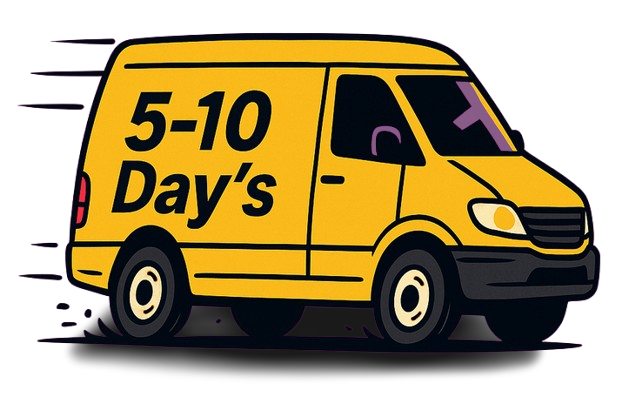
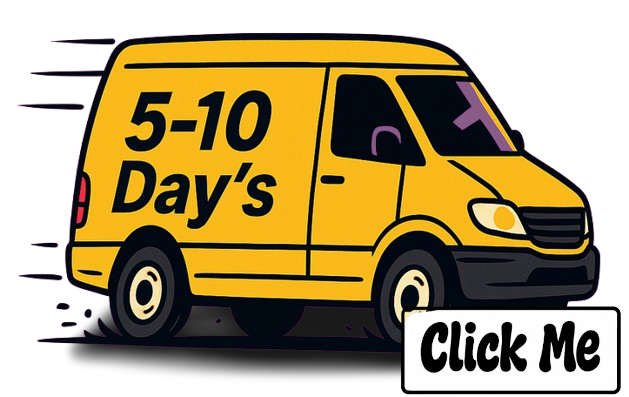
Add files via upload

Changed region(s): [[0.6343, 0.7557, 0.9968, 0.9975]]

diff --git a/index.html b/index.html
@@ -7,6 +7,9 @@
   <link href="https://fonts.googleapis.com/css2?family=Luckiest+Guy&display=swap" rel="stylesheet">
   <link href="https://cdnjs.cloudflare.com/ajax/libs/font-awesome/6.4.0/css/all.min.css" rel="stylesheet">
   <style>
+    html {
+      scroll-behavior: smooth;
+    }
     body {
       margin: 0;
       font-family: Arial, sans-serif;
@@ -50,6 +53,7 @@
       margin: 10px auto;
       display: block;
       animation: float 3s ease-in-out infinite;
+      cursor: pointer;
     }
     .value {
       font-size: 2em;
@@ -162,13 +166,24 @@
   </style>
 </head>
 <body>
+  <a name="top"></a>
   <header id="main-title">Love on Pi</header>
-  <img src="mondo.png" alt="Mondo con bandiera italiana" class="world-image">
+  <a href="#about"><img src="mondo.png" alt="Mondo con bandiera italiana" class="world-image"></a>
   <div class="value">1 Pi = <span id="pi-value">Caricamento...</span></div>
 
+  <a href="#shipping">
+  <a href="#shipping">
   <div class="delivery-section">
     <img class="delivery-img" src="delivery-van.png" alt="5-10 giorni di consegna">
   </div>
+</a>
+<a href="#payment">
+  <img src="cc.png" alt="Carta di credito" class="world-image">
+</a>
+<a href="#legal">
+  <img src="legal.png" alt="Legalità e sicurezza" style="max-width: 200px; width: 100%; margin: 10px auto; display: block; animation: pulseValue 3s ease-in-out infinite; cursor: pointer;">
+</a>
+</a>
 
   <div class="contact">INFO</div>
   <div class="social-icons">
@@ -247,10 +262,79 @@
       <h3>Code: Ts 02</h3>
       <p><span class="eur-amount">18 €</span> (<span class="pi-price">...</span>)</p>
     </div>
-    <!-- Aggiungi altri prodotti qui -->
+</div>
+
+  <a name="about"></a>
+  <div id="about" style="padding: 50px 20px; max-width: 800px; margin: 50px auto; background-color: rgba(0, 0, 0, 0.5); border-radius: 10px; color: #fff;">
+    <h2 style="font-family: 'Luckiest Guy', cursive; color: #f0c420;">Chi Sono</h2>
+    <p style="line-height: 1.6;">
+      Ciao! Mi chiamo Andrea, ho 35 anni e sono un appassionato di criptovalute. <br>
+      Sono rimasto affascinato dalla visione di Pi Network: un ecosistema accessibile, trasparente e rivolto a tutti.<br>
+      Con questo progetto voglio dare la possibilità a chiunque di acquistare gadget personalizzati a prezzi accessibili pagando in Pi Coin.
+    </p>
+    <h2 style="font-family: 'Luckiest Guy', cursive; color: #f0c420; margin-top: 40px;">About Me</h2>
+    <p style="line-height: 1.6;">
+      Hi! My name is Andrea, I’m 35 and I’m passionate about crypto.<br>
+      I was fascinated by the way Pi Network aims to build a fair and transparent ecosystem.<br>
+      Through this project, I want to offer everyone the chance to buy cool gadgets at fair prices — using their Pi Coins!
+    </p>
   </div>
 
-  <script>
+  <a name="shipping"></a>
+  <div id="shipping" style="padding: 50px 20px; max-width: 800px; margin: 50px auto; background-color: rgba(0, 0, 0, 0.5); border-radius: 10px; color: #fff;">
+    <h2 style="font-family: 'Luckiest Guy', cursive; color: #f0c420;">Spedizioni</h2>
+    <p style="line-height: 1.6;">
+      Generalmente gli ordini verranno consegnati entro 5-10 giorni lavorativi in Italia. Effettuiamo spedizioni in tutto il mondo, e le spese di spedizione possono variare a seconda del Paese di destinazione.<br>
+      Love on Pi non gestisce direttamente i gadget ma si avvale di un'azienda partner per evadere ogni ordine nel più breve tempo possibile.<br>
+      Una volta effettuato l'ordine, riceverai entro poche ore il numero di Tracking per monitorare la spedizione.<br>
+      Per maggiori informazioni o per effettuare un ordine, contattaci su Telegram, Instagram o WhatsApp!
+    </p>
+    <h2 style="font-family: 'Luckiest Guy', cursive; color: #f0c420; margin-top: 40px;">Shipping Info</h2>
+    <p style="line-height: 1.6;">
+      Orders within Italy are usually delivered within 5-10 business days. We ship worldwide and shipping costs may vary depending on your country.<br>
+      Love on Pi does not personally hold any inventory — all items are fulfilled through a trusted partner to ensure quick processing.<br>
+      After placing an order, a tracking number will be provided within a few hours so you can follow your shipment.<br>
+      For more info or to order, get in touch via Telegram, Instagram, or WhatsApp!
+    </p>
+  </div>
+
+  <a name="payment"></a>
+  <div id="payment" style="padding: 50px 20px; max-width: 800px; margin: 50px auto; background-color: rgba(0, 0, 0, 0.5); border-radius: 10px; color: #fff;">
+    <h2 style="font-family: 'Luckiest Guy', cursive; color: #f0c420;">Metodo di Pagamento</h2>
+    <p style="line-height: 1.6;">
+      Il metodo di pagamento accettato su Love on Pi è il Pi Coin.<br>
+      Per effettuare ordini, completare i pagamenti o ricevere maggiori informazioni sui nostri prodotti, sentiti libero di contattarci tramite Telegram, Instagram o WhatsApp.<br>
+      Siamo sempre disponibili, 24 ore su 24, 7 giorni su 7!
+    </p>
+    <h2 style="font-family: 'Luckiest Guy', cursive; color: #f0c420; margin-top: 40px;">Payment Method</h2>
+    <p style="line-height: 1.6;">
+      The accepted payment method on Love on Pi is Pi Coin.<br>
+      To place orders, make payments, or get more information about our products, feel free to reach out to us via Telegram, Instagram, or WhatsApp.<br>
+      We're always available — 24/7!
+    </p>
+  </div>
+
+  <a name="legal"></a>
+  <div id="legal" style="padding: 50px 20px; max-width: 800px; margin: 50px auto; background-color: rgba(0, 0, 0, 0.5); border-radius: 10px; color: #fff;">
+    <h2 style="font-family: 'Luckiest Guy', cursive; color: #f0c420;">Note Legali</h2>
+    <p style="line-height: 1.6;">
+      Love on Pi non è un’azienda registrata ma un progetto amatoriale per appassionati della rete Pi Network.<br>
+      Tutti i prodotti vengono spediti tramite fornitori terzi affidabili, nel rispetto della privacy e delle normative internazionali.<br>
+      I pagamenti in Pi Coin sono da considerarsi tra privati, senza fini di lucro.
+    </p>
+    <h2 style="font-family: 'Luckiest Guy', cursive; color: #f0c420; margin-top: 40px;">Legal Notice</h2>
+    <p style="line-height: 1.6;">
+      Love on Pi is not a registered company, but a fan-driven project dedicated to Pi Network enthusiasts.<br>
+      All products are fulfilled via trusted third-party services, respecting international privacy and shipping regulations.<br>
+      Pi Coin payments are peer-to-peer and non-commercial in nature.
+    </p>
+  </div>
+
+  <a href="#top">
+    <img src="up-arrow.png" alt="Torna su" class="world-image">
+  </a>
+
+<script>
     function updateProductPrices(piToEur) {
       const products = document.querySelectorAll('.product');
       products.forEach(product => {
